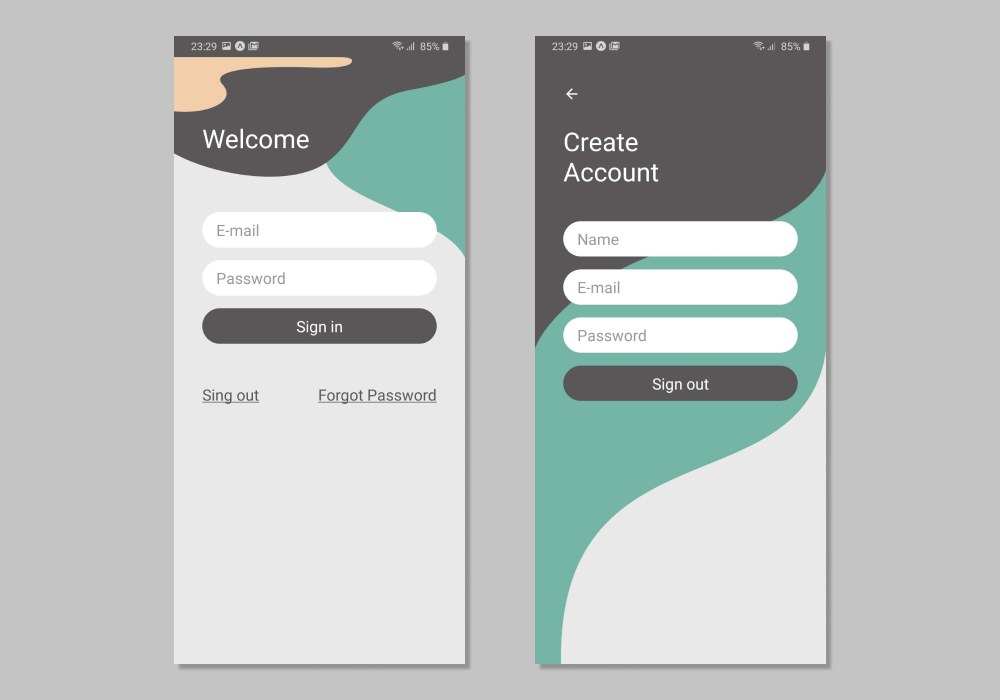
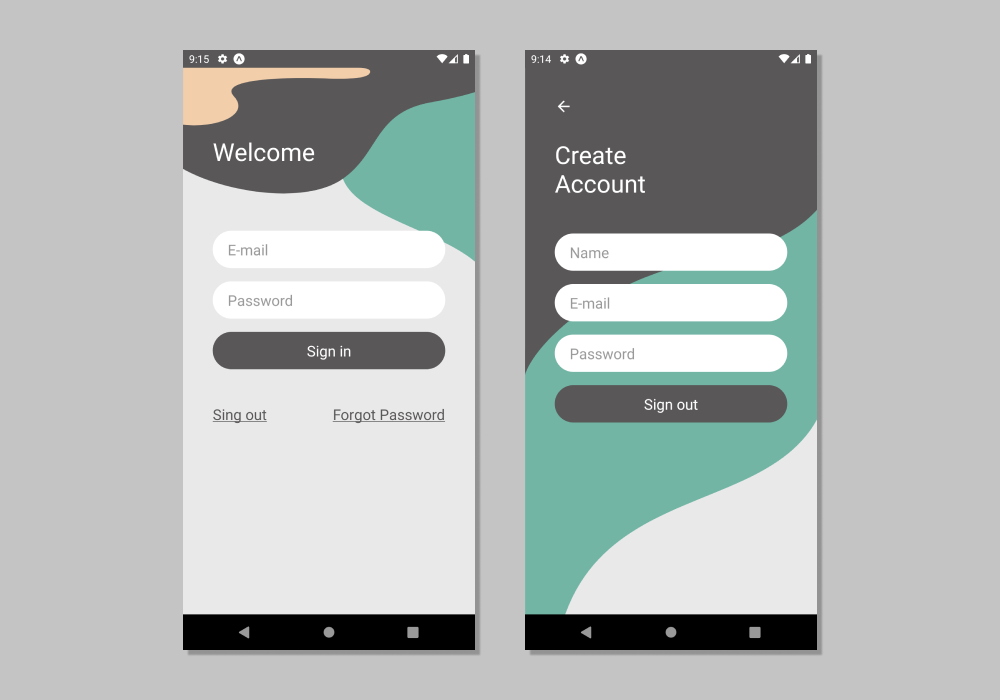
svg

Changed region(s): [[0.527, 0.03, 0.837, 0.96], [0.155, 0.03, 0.496, 0.96], [0.217, 0.33, 0.279, 0.36]]

diff --git a/login/src/screens/login.js b/login/src/screens/login.js
@@ -1,8 +1,7 @@
 import React from 'react';
 import { useNavigation } from '@react-navigation/native';
-import { StyleSheet, Text, Image, View, TextInput, TouchableOpacity } from 'react-native';
-
-import vector from '../assets/vector.png';
+import Svg, { Path } from 'react-native-svg';
+import { StyleSheet, Text, View, TextInput, TouchableOpacity } from 'react-native';
 
 function login() {
 
@@ -10,7 +9,11 @@ function login() {
 
   return (
     <View style={styles.container}>
-      <Image style={ styles.imageHeader } source={ vector } />
+      <Svg width="414" height="293" viewBox="0 0 414 293" style={ styles.svg }>
+        <Path d="M415 293C398.982 231.469 260.823 212.588 222.715 162.772C184.608 112.955 265.516 74.1014 265.516 74.1014C265.516 74.1014 312.342 44.1529 330.701 36.5195C349.059 28.8862 387.064 18.0924 415 23.4268V293Z" fill="#72B5A4"/>
+        <Path d="M0 0H415V21.7225C415 21.7225 410.063 32.7542 333.279 46.528C256.494 60.3018 265 114.635 214.5 149.634C164 184.633 55.5 167.387 0 135.938V0Z" fill="#595757"/>
+        <Path d="M0 3.39095e-06H232.862C232.862 3.39095e-06 250.786 -0.499993 251.5 4.5C252.214 9.5 247 16.5 193 14.5C139 12.5 46.5 14.5 68.5 38.5C90.5 62.5 47.7666 81.5077 0 76.6278V3.39095e-06Z" fill="#F2CEAB"/>
+      </Svg>
       <Text style={styles.title}>Welcome</Text>
       <View style={styles.containerLogin}>
         <TextInput
@@ -57,7 +60,7 @@ const styles = StyleSheet.create({
     justifyContent: 'flex-start',
     padding: 40
   },
-  imageHeader:{
+  svg:{
     position: 'absolute',
     top: 0,
     left: 0,
@@ -65,7 +68,7 @@ const styles = StyleSheet.create({
   },
   title: {
     marginTop: 50,
-    marginBottom: 80,
+    marginBottom: 85,
     fontSize: 33,
     color: '#fff'
   },
@@ -90,7 +93,7 @@ const styles = StyleSheet.create({
     justifyContent: 'center',
     alignItems: 'center',
     borderRadius: 25,
-    marginBottom: 57
+    marginBottom: 47
   },
   textButton: {
     fontSize: 20,

diff --git a/login/src/screens/createLogin.js b/login/src/screens/createLogin.js
@@ -1,8 +1,8 @@
 import React from 'react';
 import { useNavigation } from '@react-navigation/native';
+import Svg, { Path } from 'react-native-svg';
 import { View, Text, Image, StyleSheet, TextInput, TouchableOpacity } from 'react-native';
 
-import image from '../assets/image.png';
 import arraw from '../assets/arraw.png';
 
 function createLogin() {
@@ -11,7 +11,10 @@ function createLogin() {
 
   return (
     <View style={ styles.constaine } >
-      <Image style={ styles.image } source={image}/>
+      <Svg width="414" height="860" viewBox="0 0 414 860" style={ styles.svg }>
+        <Path d="M0 455.957L0 860H37C29 491.5 414 655.5 414 378.5V127L181 253L0 378.5L0 455.957Z" fill="#72B5A4"/>
+        <Path d="M0 0H414V150.915C414 150.915 405 229 253.5 255.963C102 282.926 13.5 370.5 0 413V288.143V0Z" fill="#595757"/>
+      </Svg>
       <TouchableOpacity onPress={() => navigation.goBack()}>
         <Image source={arraw}/>
       </TouchableOpacity>
@@ -59,7 +62,7 @@ const styles = StyleSheet.create({
     justifyContent: 'flex-start',
     padding: 40
   },
-  image:{
+  svg:{
     position: 'absolute',
     top: 0,
     bottom: 0,
